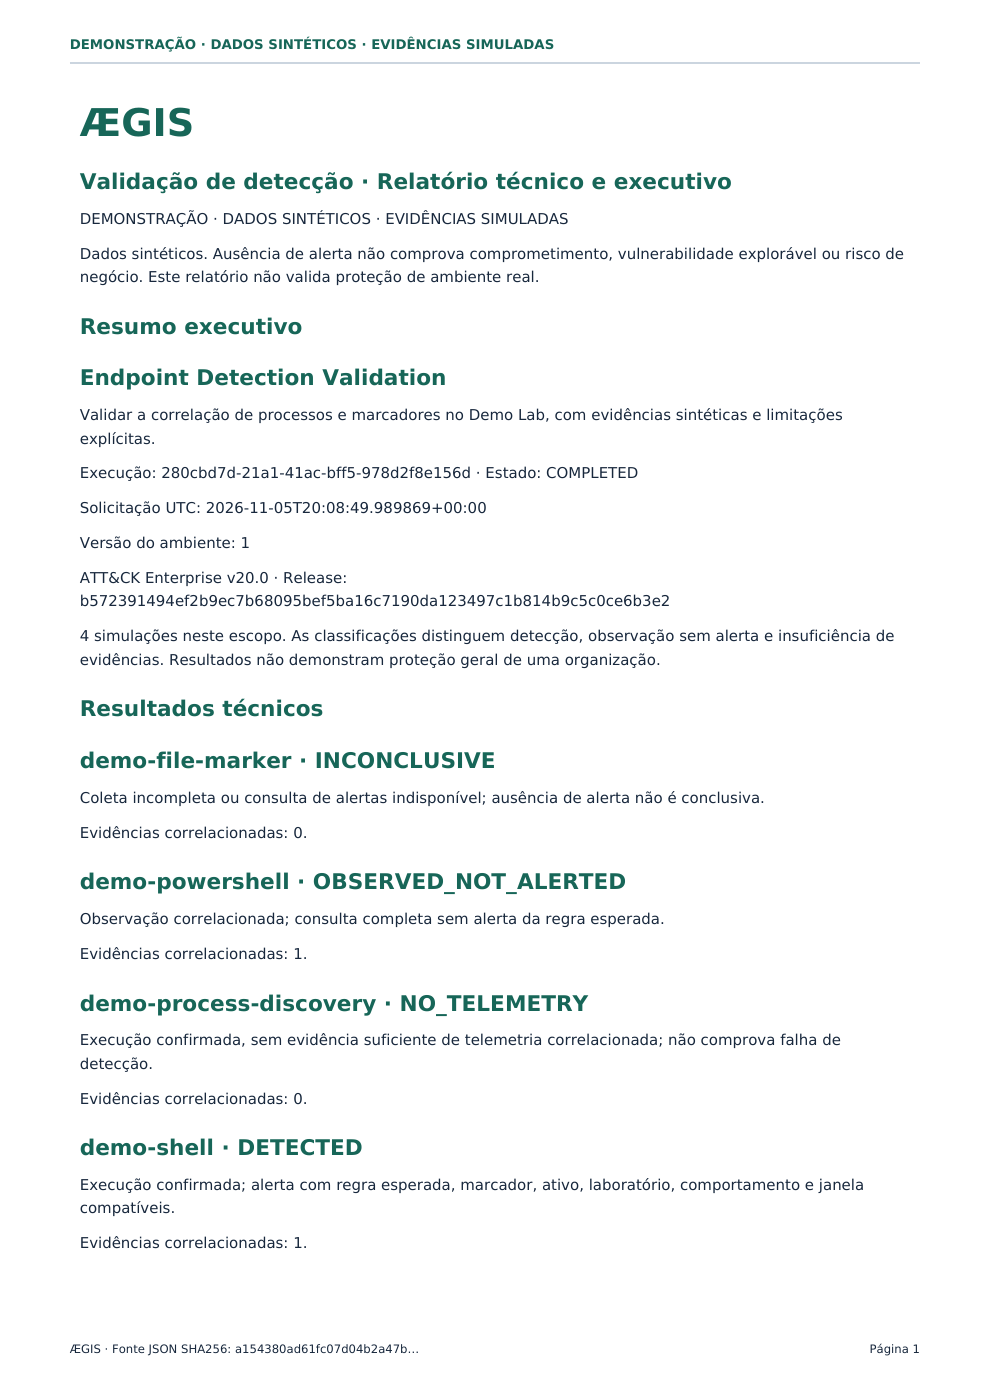
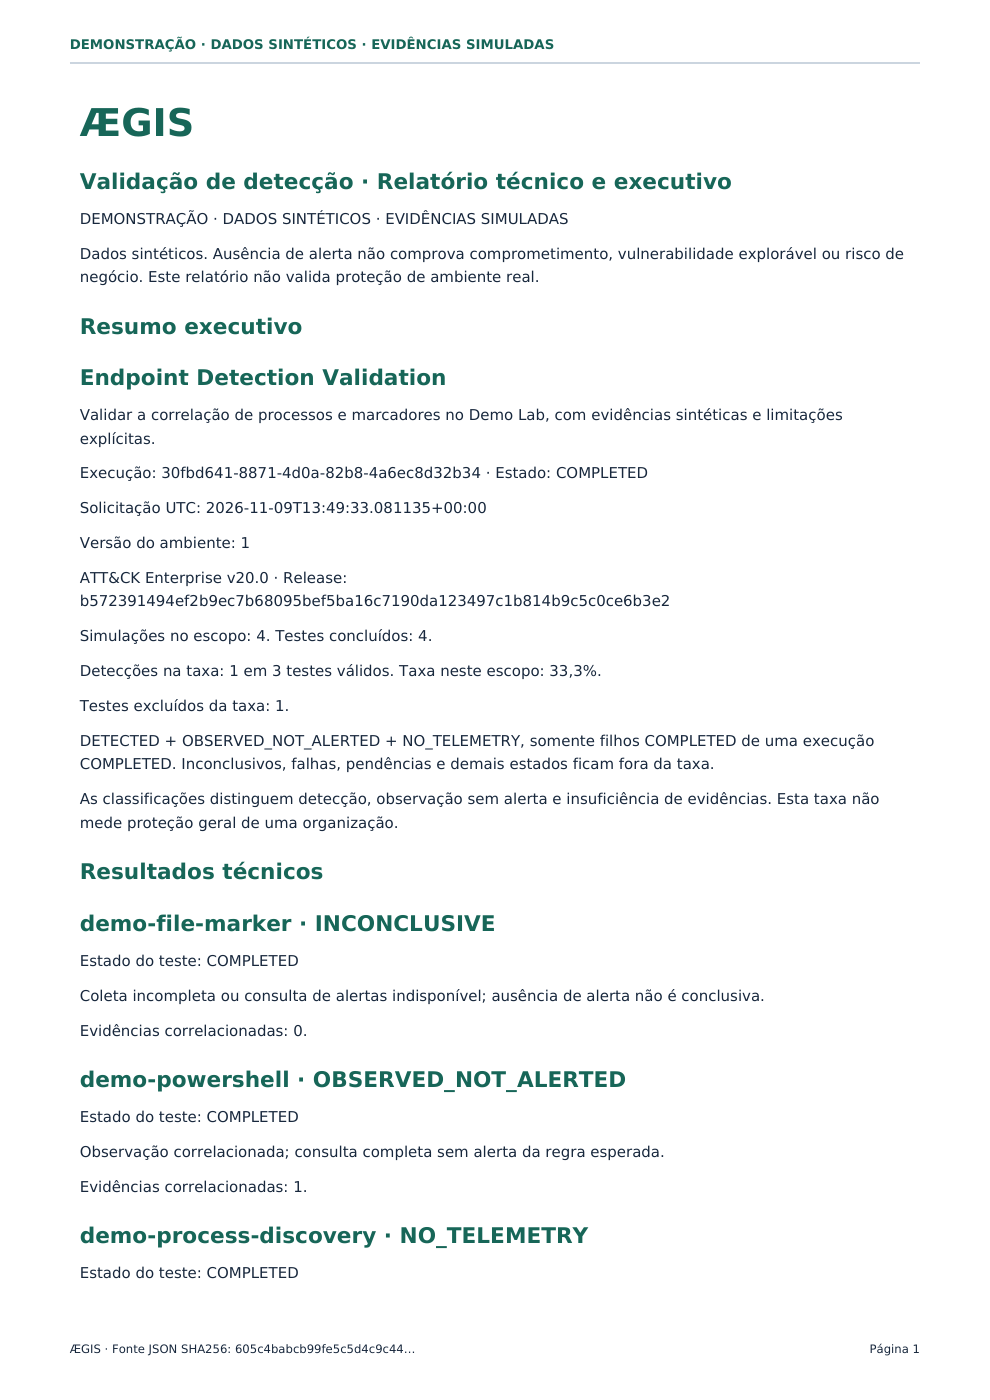
docs(reports): refresh actual PDF example with explicit denominators

diff --git a/docs/images/README.md b/docs/images/README.md
@@ -10,8 +10,9 @@ Firefox de 2026-10-26: 4 runs / 16 testes sintéticos, zero erros JavaScript e v
 sem overflow, incluindo o modal de transformação. A rodada atual acrescentou a
 prévia oficial de rename e preservou o relatório histórico. São 14 arquivos com a
 captura Linux anterior; nenhuma nova execução real de laboratório. A primeira
-página PDF de2026-11-05 acrescenta uma captura, totalizando15arquivos; é rasterização
-de um relatório realmente gerado/baixado no E2E Demo, com evidências sintéticas.
+página PDF acrescenta uma captura, totalizando15arquivos; foi atualizada em
+2026-11-09 com o resumo executivo e é rasterização de um relatório realmente
+gerado/baixado no E2E Demo, com evidências sintéticas.
 [Política e limites da prévia](../integrations/sigma.md#prévia-de-transformação-de-campos).
 
 | Captura | Conteúdo e origem |
@@ -30,7 +31,7 @@ de um relatório realmente gerado/baixado no E2E Demo, com evidências sintétic
 | [Wazuh desconectado](wazuh-preparation.png) | Demo padrão sem conector; não representa o banco do ensaio Wazuh |
 | [Mobile](mobile.png) | Interface Demo em viewport móvel; screenshot pode excluir a barra de rolagem |
 | [Linux encerrado](linux-execution.png) | Captura histórica de 2026-10-21: campanha real autorizada, INCONCLUSIVE sem SIEM, recibo separado de detecção |
-| [Relatório PDF](report-pdf.png) | Primeira página do PDF de execução do E2E Firefox2026-11-05; documento completo com13páginas e aviso sintético em todas |
+| [Relatório PDF](report-pdf.png) | Primeira página do PDF de execução do E2E Firefox2026-11-09, fonte26605ff; 1 detecção em3testes válidos, com1inconclusivo fora da taxa. Documento completo13páginas/67.550bytes e aviso sintético em todas |
 
 A imagem Linux foi capturada consultando o histórico após o único ensaio integrado,
 sem repetir o marcador. Ver [escopo e encerramento](../../labs/linux/README.md).

diff --git a/README.md b/README.md
@@ -86,7 +86,7 @@ segurança de uma organização. Repetir o mesmo escopo não inventa melhoria.
 
 ![Filtros e exportações reais de cobertura no Demo E2E](docs/images/coverage.png)
 
-![Primeira página de um PDF gerado no E2E com dados sintéticos](docs/images/report-pdf.png)
+![PDF real do E2E: quatro simulações sintéticas, uma detecção em três testes válidos e um inconclusivo excluído da taxa](docs/images/report-pdf.png)
 
 [Relatórios PDF: uso, integridade e limites](docs/operations/pdf-reports.md).
 
